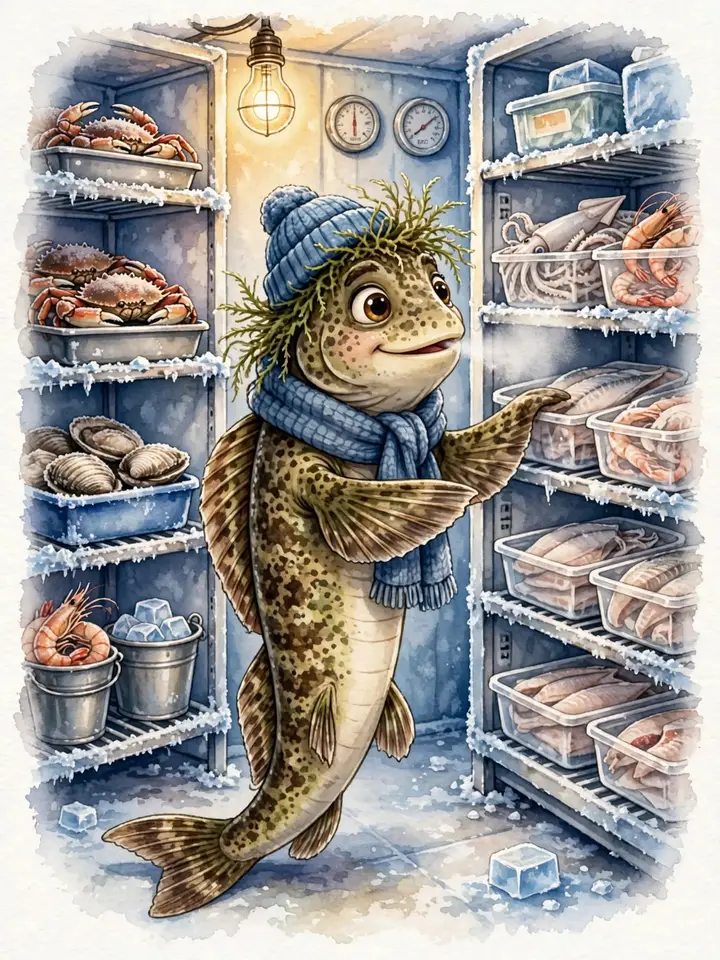
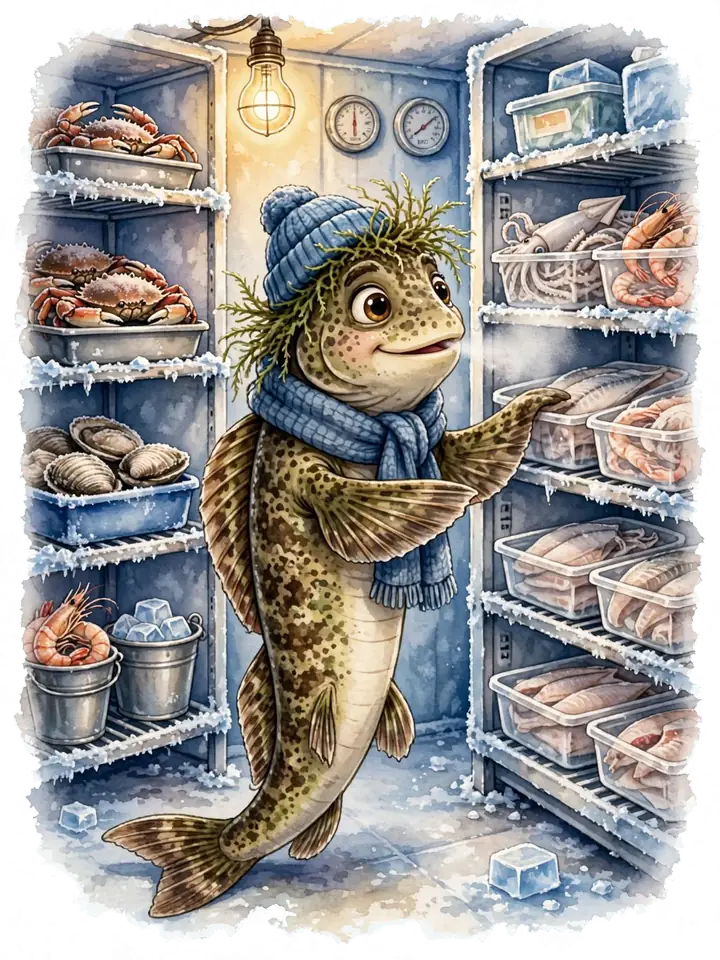
Rename "Takarmányhűtő" to "Fagyasztó" everywhere the user sees it; the home card from Lili's transparent PNG
Lili 2026-10-30 (acrobot 38756): the transparent picture came (exchange/caparium/fooldal-takarmanyhuto-kep/
takarmanyhuto-atlatszo.png, 1344x1792 RGBA), and at 13:28 UTC (msg 1565718949457567755): "legyen mindenhol a
neve fagyasztó, mert sok lesz már a takarmány takarmányhátán".

- Name: the menu entry (🧊 Fagyasztó, still directly above Takarmánylista), the page title, the home card's
  caption, the withdrawal page's hint, the intake page's hint ("A fagyasztóba érkezett készlet"), and the
  admin activity page's group label ("Fagyasztó és kivétel"). The report keeps its title "Cápasuli
  takarmányegyenleg". The URL /takarmanyhuto and the code names stay (no redirect needed: nothing moved).
- Picture: public/kezdolap/takarmanyhuto.webp from her PNG, 720x960 with the alpha kept (quality 70, alpha
  85, 155 KB). The card's picture has no frame and no rounded corners now (.home-card-narrow img), so the
  white watercolour edge melts into the page instead of standing in a box; measured on the replica with the
  real stylesheet (exchange-out/caparium-fooldal-takarmanyhuto/sor2-fagyaszto-1440.png and -390.png).
- Tests: the nav test (the label in the order list and the icon map), the home e2e (the second row's
  caption) and the intake e2e's menu link name the new word.

diff --git a/tests/e2e/daily-flow.spec.ts b/tests/e2e/daily-flow.spec.ts
@@ -1121,7 +1121,7 @@ for (const [name, link] of [["daily", "Napi vízmérés"], ["weekly", "Heti víz
   });
 }
 
-test("intake (Takarmányhűtő): an item in the stock; a returned delivery shows on the list and does not change the stock", async ({ page }, info) => {
+test("intake (Fagyasztó): an item in the stock; a returned delivery shows on the list and does not change the stock", async ({ page }, info) => {
   // each layout receives its own feed
   const feedName = info.project.name === "tablet" ? "Teszt hal" : "Teszt kagyló";
   // a retry of this test (same database) must not meet its own first attempt's rows: the notes are unique per attempt
@@ -1129,7 +1129,7 @@ test("intake (Takarmányhűtő): an item in the stock; a returned delivery shows
   const opening = `nyitó készlet ${tag}`;
   const sentBack = `nem megfelelő ${tag}`;
   await login(page, "teszt.akvarista1");
-  await page.getByRole("navigation", { name: "Fő navigáció" }).getByRole("link", { name: "Takarmányhűtő" }).click();
+  await page.getByRole("navigation", { name: "Fő navigáció" }).getByRole("link", { name: "Fagyasztó" }).click();
   await expect(page.getByTestId("day-picker").getByRole("button", { name: "Ugrás" })).toBeVisible();
   const form = page.getByTestId("intake-form");
   await form.getByLabel("Takarmány", { exact: true }).selectOption({ label: feedName });
@@ -1164,7 +1164,7 @@ test("intake (Takarmányhűtő): an item in the stock; a returned delivery shows
   await take.getByLabel("Mennyiség (tömeg)", { exact: true }).fill("99999999");
   await expect(take.getByTestId("stock-hint").first()).toContainText("meghaladja a készletet");
   // the report (Lili 2026-10-30): the PDF and the Excel of the period, from the Takarmányhűtő page
-  await page.getByRole("navigation", { name: "Fő navigáció" }).getByRole("link", { name: "Takarmányhűtő" }).click();
+  await page.getByRole("navigation", { name: "Fő navigáció" }).getByRole("link", { name: "Fagyasztó" }).click();
   const pdf = await Promise.all([page.waitForEvent("download"), page.getByTestId("intake-pdf").click()]);
   expect(pdf[0].suggestedFilename()).toMatch(/^Capasuli_takarmanyegyenleg_\d{4}-\d{2}-\d{2}(_\d{4}-\d{2}-\d{2})?\.pdf$/);
   const xlsx = await Promise.all([page.waitForEvent("download"), page.getByTestId("intake-excel").click()]);
@@ -1474,7 +1474,7 @@ test("home: the customer's illustrated cards, 3-3-3 with a narrow portrait one b
   const captions = async (i: number) => (await rows.nth(i).locator(".home-caption").allInnerTexts()).map((t) => t.replace(/\s+/g, " ").trim());
   expect(await captions(0)).toEqual(["Nagy medencék NAPI VÍZMÉRÉS", "Kis medencék NAPI VÍZMÉRÉS", "HETI VÍZMÉRÉS"]);
   // Lili 2026-10-30: the fridge card between the two landscape ones
-  expect(await captions(1)).toEqual(["Nyomelem és megkötő adagolás", "Takarmányhűtő", "Takarmány kalkulátor"]);
+  expect(await captions(1)).toEqual(["Nyomelem és megkötő adagolás", "Fagyasztó", "Takarmány kalkulátor"]);
   expect(await captions(2)).toEqual(["Takarmány kivételi napló", "Egyedi takarmánynapló", "Evési napló"]);
   // every picture is the web-sized one and loads
   for (const img of await page.locator(".home-card img").all()) {

diff --git a/tests/unit/nav.test.ts b/tests/unit/nav.test.ts
@@ -38,7 +38,7 @@ describe("the main navigation", () => {
   it("keeps Lili's order for an admin", () => {
     expect(labels("ADMIN")).toEqual([
       "START", "Napi vízmérés", "Heti vízmérés", "Export", "Takarmánynapló", "Evési napló", "Takarmánykivétel",
-      "Takarmánykalkulátor", "Vegyszeradagolás", "Vízmérési napló", "Takarmányozási napló", "Takarmányhűtő",
+      "Takarmánykalkulátor", "Vegyszeradagolás", "Vízmérési napló", "Takarmányozási napló", "Fagyasztó",
       "Takarmánylista", "Kimutatások", "Függő mentések", "Állatok", "Beállítások", "Aktivitás",
     ]);
   });
@@ -46,7 +46,7 @@ describe("the main navigation", () => {
   it("puts each entry in its color group, and leaves the rest plain", () => {
     const tone = (label: string) => navFor("ADMIN").find((n) => n.label === label)?.tone;
     for (const l of ["Napi vízmérés", "Heti vízmérés", "Vegyszeradagolás", "Vízmérési napló"]) expect(tone(l), l).toBe("water");
-    for (const l of ["Takarmánynapló", "Evési napló", "Takarmánykivétel", "Takarmánykalkulátor", "Takarmányozási napló", "Takarmányhűtő", "Takarmánylista"]) {
+    for (const l of ["Takarmánynapló", "Evési napló", "Takarmánykivétel", "Takarmánykalkulátor", "Takarmányozási napló", "Fagyasztó", "Takarmánylista"]) {
       expect(tone(l), l).toBe("feed");
     }
     // the control: the entries Lili marked "szín marad" are really plain, so the two checks above cannot pass on a menu where everything is colored
@@ -64,7 +64,7 @@ describe("the main navigation", () => {
       Takarmánykivétel: "➖",
       Takarmánykalkulátor: "🧮",
       Vegyszeradagolás: "🧪",
-      Takarmányhűtő: "🧊",
+      Fagyasztó: "🧊",
     });
     // the label is the name alone: no emoji, nothing outside letters, spaces and the hyphen
     for (const n of navFor("ADMIN")) expect(n.label, n.label).toMatch(/^[\p{L} -]+$/u);

diff --git a/src/app/takarmanyhuto/page.tsx b/src/app/takarmanyhuto/page.tsx
@@ -49,14 +49,14 @@ export default async function IntakePage({ searchParams }: { searchParams: Promi
   );
   const tracked = stock.filter((r) => r.tracked && r.active);
   return (
-    <Shell title="Takarmányhűtő" active="intake" user={user}>
+    <Shell title="Fagyasztó" active="intake" user={user}>
       <div className="toolbar toolbar-end">
         <DayNav path="/takarmanyhuto" day={day} today={today} />
         <DayJump path="/takarmanyhuto" day={day} today={today} />
       </div>
       <div className="card">
         <h2>Beérkezett takarmány</h2>
-        <p className="hint">A hűtőbe érkezett készlet. Ha a szállítmányt visszaküldik, pipáld be a „Visszaküldve” jelölőt: látszik a listán, de nem kerül a készletre.</p>
+        <p className="hint">A fagyasztóba érkezett készlet. Ha a szállítmányt visszaküldik, pipáld be a „Visszaküldve” jelölőt: látszik a listán, de nem kerül a készletre.</p>
         <IntakeItems day={day} feeds={feeds} otherNames={otherNames} items={items} editable={editable} />
       </div>
 

diff --git a/src/lib/nav.ts b/src/lib/nav.ts
@@ -30,8 +30,9 @@ const NAV: NavItem[] = [
   { key: "dosing", href: "/adagolas", label: "Vegyszeradagolás", tone: "water", icon: "🧪" },
   { key: "log", href: "/naplo", label: "Vízmérési napló", tone: "water" },
   { key: "feedlog", href: "/takarmany-naplo", label: "Takarmányozási napló", tone: "feed" },
-  // Lili 2026-10-29 (package item 9): "Takarmányhűtő" directly above "Takarmánylista"
-  { key: "intake", href: "/takarmanyhuto", label: "Takarmányhűtő", tone: "feed", icon: "🧊" },
+  // Lili 2026-10-29 (package item 9): the freezer page directly above "Takarmánylista"; called "Fagyasztó" everywhere since 2026-10-30 13:28 UTC
+  // (msg 1565718949457567755: "sok lesz már a takarmány takarmányhátán")
+  { key: "intake", href: "/takarmanyhuto", label: "Fagyasztó", tone: "feed", icon: "🧊" },
   { key: "feeds", href: "/takarmanyok", label: "Takarmánylista", tone: "feed" },
   { key: "reports", href: "/kimutatasok", label: "Kimutatások" },
 ];

diff --git a/src/app/globals.css b/src/app/globals.css
@@ -348,7 +348,8 @@ select.input, .meta-select { -webkit-appearance: none; appearance: none; backgro
 /* the word "Takarmányhűtő" is wider than the narrow card on a tablet: it must not widen the card (and so its picture), it overflows the
    card's centre evenly into the gaps instead (CI run 41060337750, tablet 1024 px: the card was 139 px, not about half of 224) */
 .home-card-narrow .home-caption { white-space: nowrap; }
-.home-card-narrow img { aspect-ratio: 3 / 4; }
+/* a transparent picture (Lili 2026-10-30, her PNG): no frame, so its white watercolour edge melts into the page instead of standing in a box */
+.home-card-narrow img { aspect-ratio: 3 / 4; border: 0; border-radius: 0; }
 .home-card:hover img, .home-card:focus-visible img { outline: 3px solid var(--c-primary); outline-offset: 2px; }
 .home-caption { display: flex; flex-direction: column; align-items: center; text-align: center; font-size: 18px; line-height: 1.3; }
 @media (max-width: 720px) {

diff --git a/src/lib/activity.ts b/src/lib/activity.ts
@@ -30,7 +30,7 @@ export const ACTIVITY_KINDS: readonly ActivityKind[] = [
     label: "Takarmánynapló",
     entityTypes: ["FeedingDay", "FeedingItem", "FeedingList", "FeedingSelection", "FeedingPlan", "FeedingReference", "CalculatorRun"],
   },
-  { key: "withdrawal", label: "Takarmányhűtő és kivétel", entityTypes: ["FeedIntakeItem", "WithdrawalItem"] },
+  { key: "withdrawal", label: "Fagyasztó és kivétel", entityTypes: ["FeedIntakeItem", "WithdrawalItem"] },
   { key: "dosing", label: "Vegyszeradagolás", entityTypes: ["Dosing", "StockMovement"] },
   { key: "animals", label: "Állatok", entityTypes: ["Animal", "AnimalGroup", "AnimalOrder", "LifecycleEvent", "InitialAnimalList", "Species"] },
   {

diff --git a/src/app/kivetel/page.tsx b/src/app/kivetel/page.tsx
@@ -73,7 +73,7 @@ export default async function WithdrawalPage({ searchParams }: { searchParams: P
       </div>
       <div className="card">
         <h2>Kivett takarmány</h2>
-        <p className="hint">Amit ma kiveszel a fagyasztóból; a felhasználás napja alapból a holnap. A darab és a tömeg külön összeg. A kivétel a Takarmányhűtő készletéből vonódik le.</p>
+        <p className="hint">Amit ma kiveszel a fagyasztóból; a felhasználás napja alapból a holnap. A darab és a tömeg külön összeg. A kivétel a Fagyasztó készletéből vonódik le.</p>
         <WithdrawalItems
           day={day}
           useDay={addDays(day, 1)}

diff --git a/src/app/page.tsx b/src/app/page.tsx
@@ -23,7 +23,7 @@ const HOME_ROWS: HomeCard[][] = [
   [
     { id: "adagolas", href: "/adagolas", caption: ["Nyomelem és megkötő adagolás"], module: "dosing" },
     // Lili 2026-10-30: between the two landscape cards, a narrower portrait one with the fridge picture (hely-jelolve.png)
-    { id: "takarmanyhuto", href: "/takarmanyhuto", caption: ["Takarmányhűtő"], module: "withdrawal", narrow: true },
+    { id: "takarmanyhuto", href: "/takarmanyhuto", caption: ["Fagyasztó"], module: "withdrawal", narrow: true },
     { id: "kalkulator", href: "/kalkulator", caption: ["Takarmány", "kalkulátor"], module: "feeding" },
   ],
   [
